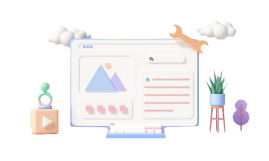
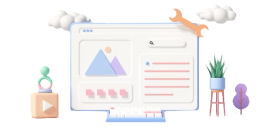
fix categori cards

diff --git a/components/categories-cards.js b/components/categories-cards.js
@@ -2,26 +2,53 @@ import PropTypes from "prop-types"
 import Image from 'next/image'
 import Link from 'next/link'
 import designDigital from '../pages/images/design-digital.png'
+import designUx from '../pages/images/design-ux.png'
+import designBrand from '../pages/images/design-brand.png'
+import designMarketing from '../pages/images/design-marketing.png'
 
 const cards = [
   {
+    alt: '',
     href: '/',
+    src: designDigital,
+    title: 'Digital Design'
+  },
+  {
+    alt: '',
+    href: '/',
+    src: designUx,
+    title: 'UX | UI Designn'
+  },
+  {
+    alt: '',
+    href: '/',
+    src: designBrand,
+    title: 'Brand Design'
+  },
+  {
+    alt: '',
+    href: '/',
+    src: designMarketing,
+    title: 'Marketing Design'
   }
 ]
 
 const CategoriesCards = ({href}) => {
   return (
     <div className='d-flex flex-wrap justify-content-between mb-medium'>
-      <Link href={href}>
-        <a className='link-clear mb-large category-card'>
-          <div>
-            <Image className='category-card__img' src={designDigital} alt='Design Digital'/>
-            <p className=' mb-large category-card__title'>
-              Digital Design
-            </p>
-          </div>
-        </a>
-      </Link>
+      {
+        cards.map((item, index) => (
+          <Link href={item.href} key={index}>
+            <a className='link-clear mb-large category-card'>
+              <Image className='category-card__img' src={item.src} alt={item.alt}/>
+              <p className=' mb-large category-card__title'>
+                {item.title}
+              </p>
+            </a>
+          </Link>
+        ))
+      }
+      
     </div>
   )
 }

diff --git a/styles/partials/03-molecules/_categories-cards.scss b/styles/partials/03-molecules/_categories-cards.scss
@@ -15,6 +15,10 @@
   @include query(1024px) {
     width: 22%;
   }
+
+  div {
+    height: 100px;
+  }
 }
 
 .category-card__title {
@@ -23,7 +27,6 @@
 }
 
 .category-card__img {
-  height: 200px !important;
-  object-fit: cover;
+  object-fit: contain;
   padding: 10px !important;
 }

diff --git a/components/social-icons.js b/components/social-icons.js
@@ -13,7 +13,7 @@ const SocialIcons = ({className, social}) => {
           </div>
         ))
       }
-    </div>  
+    </div>
   );
 }
 
